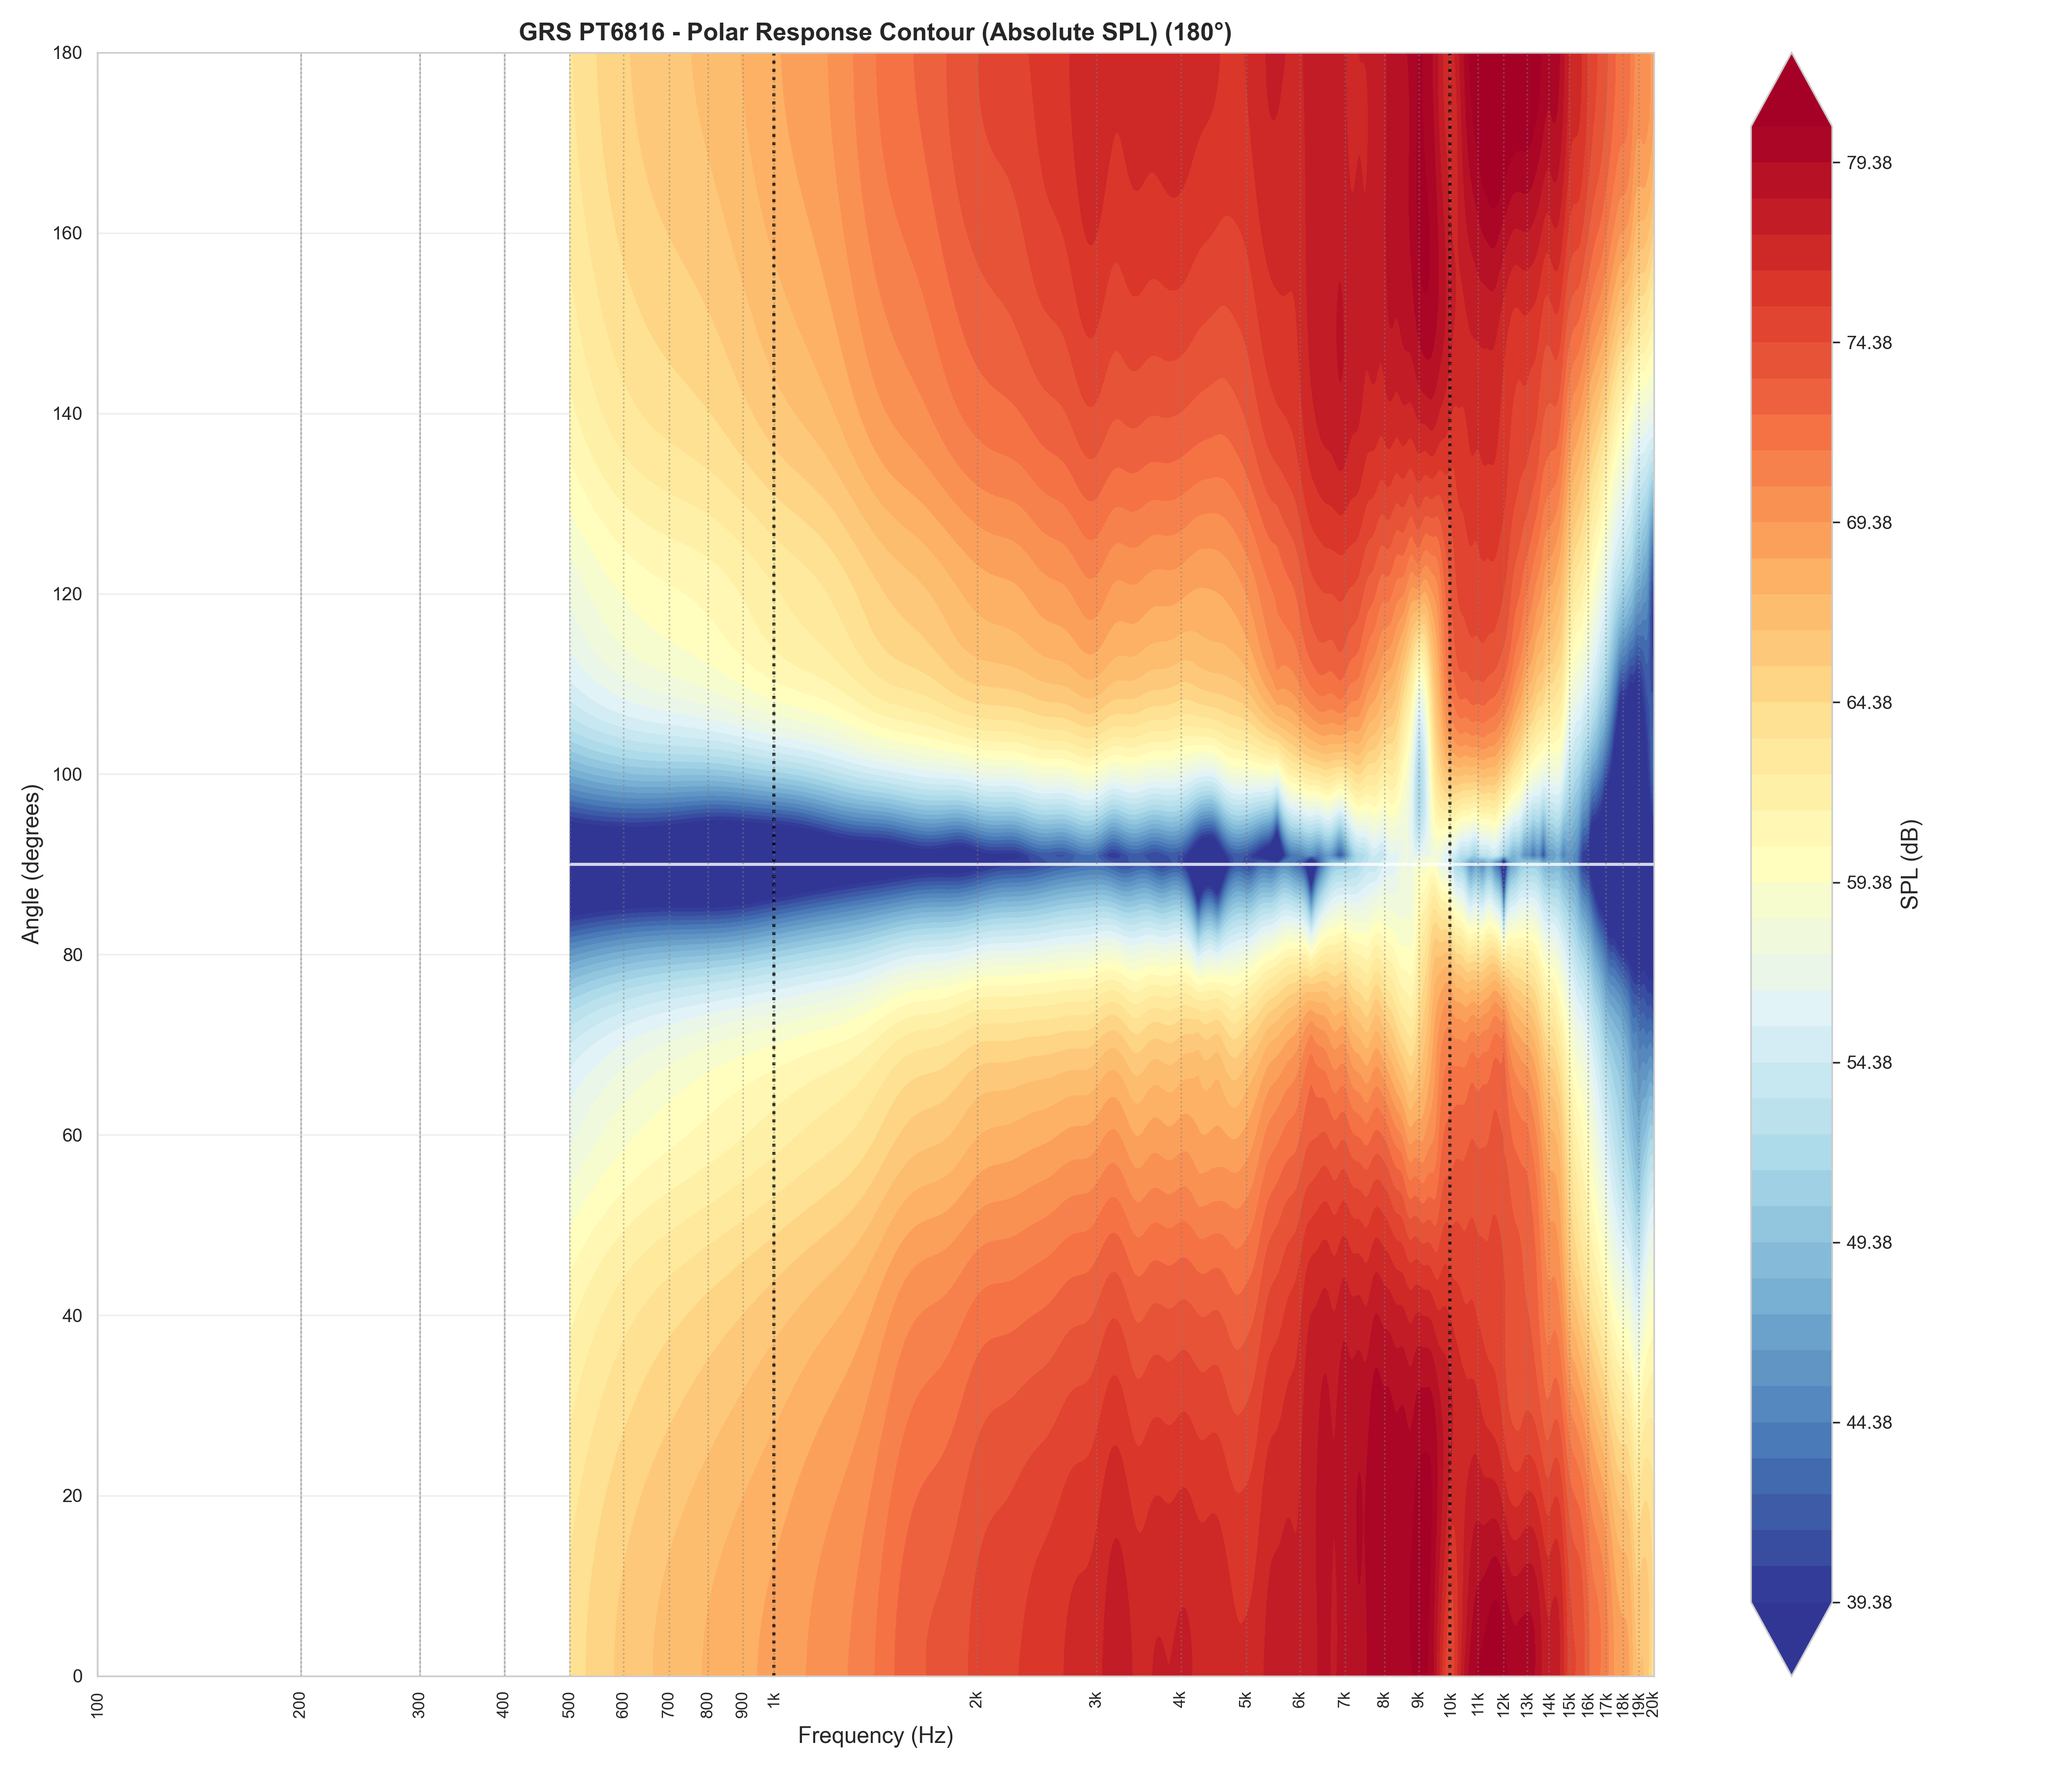
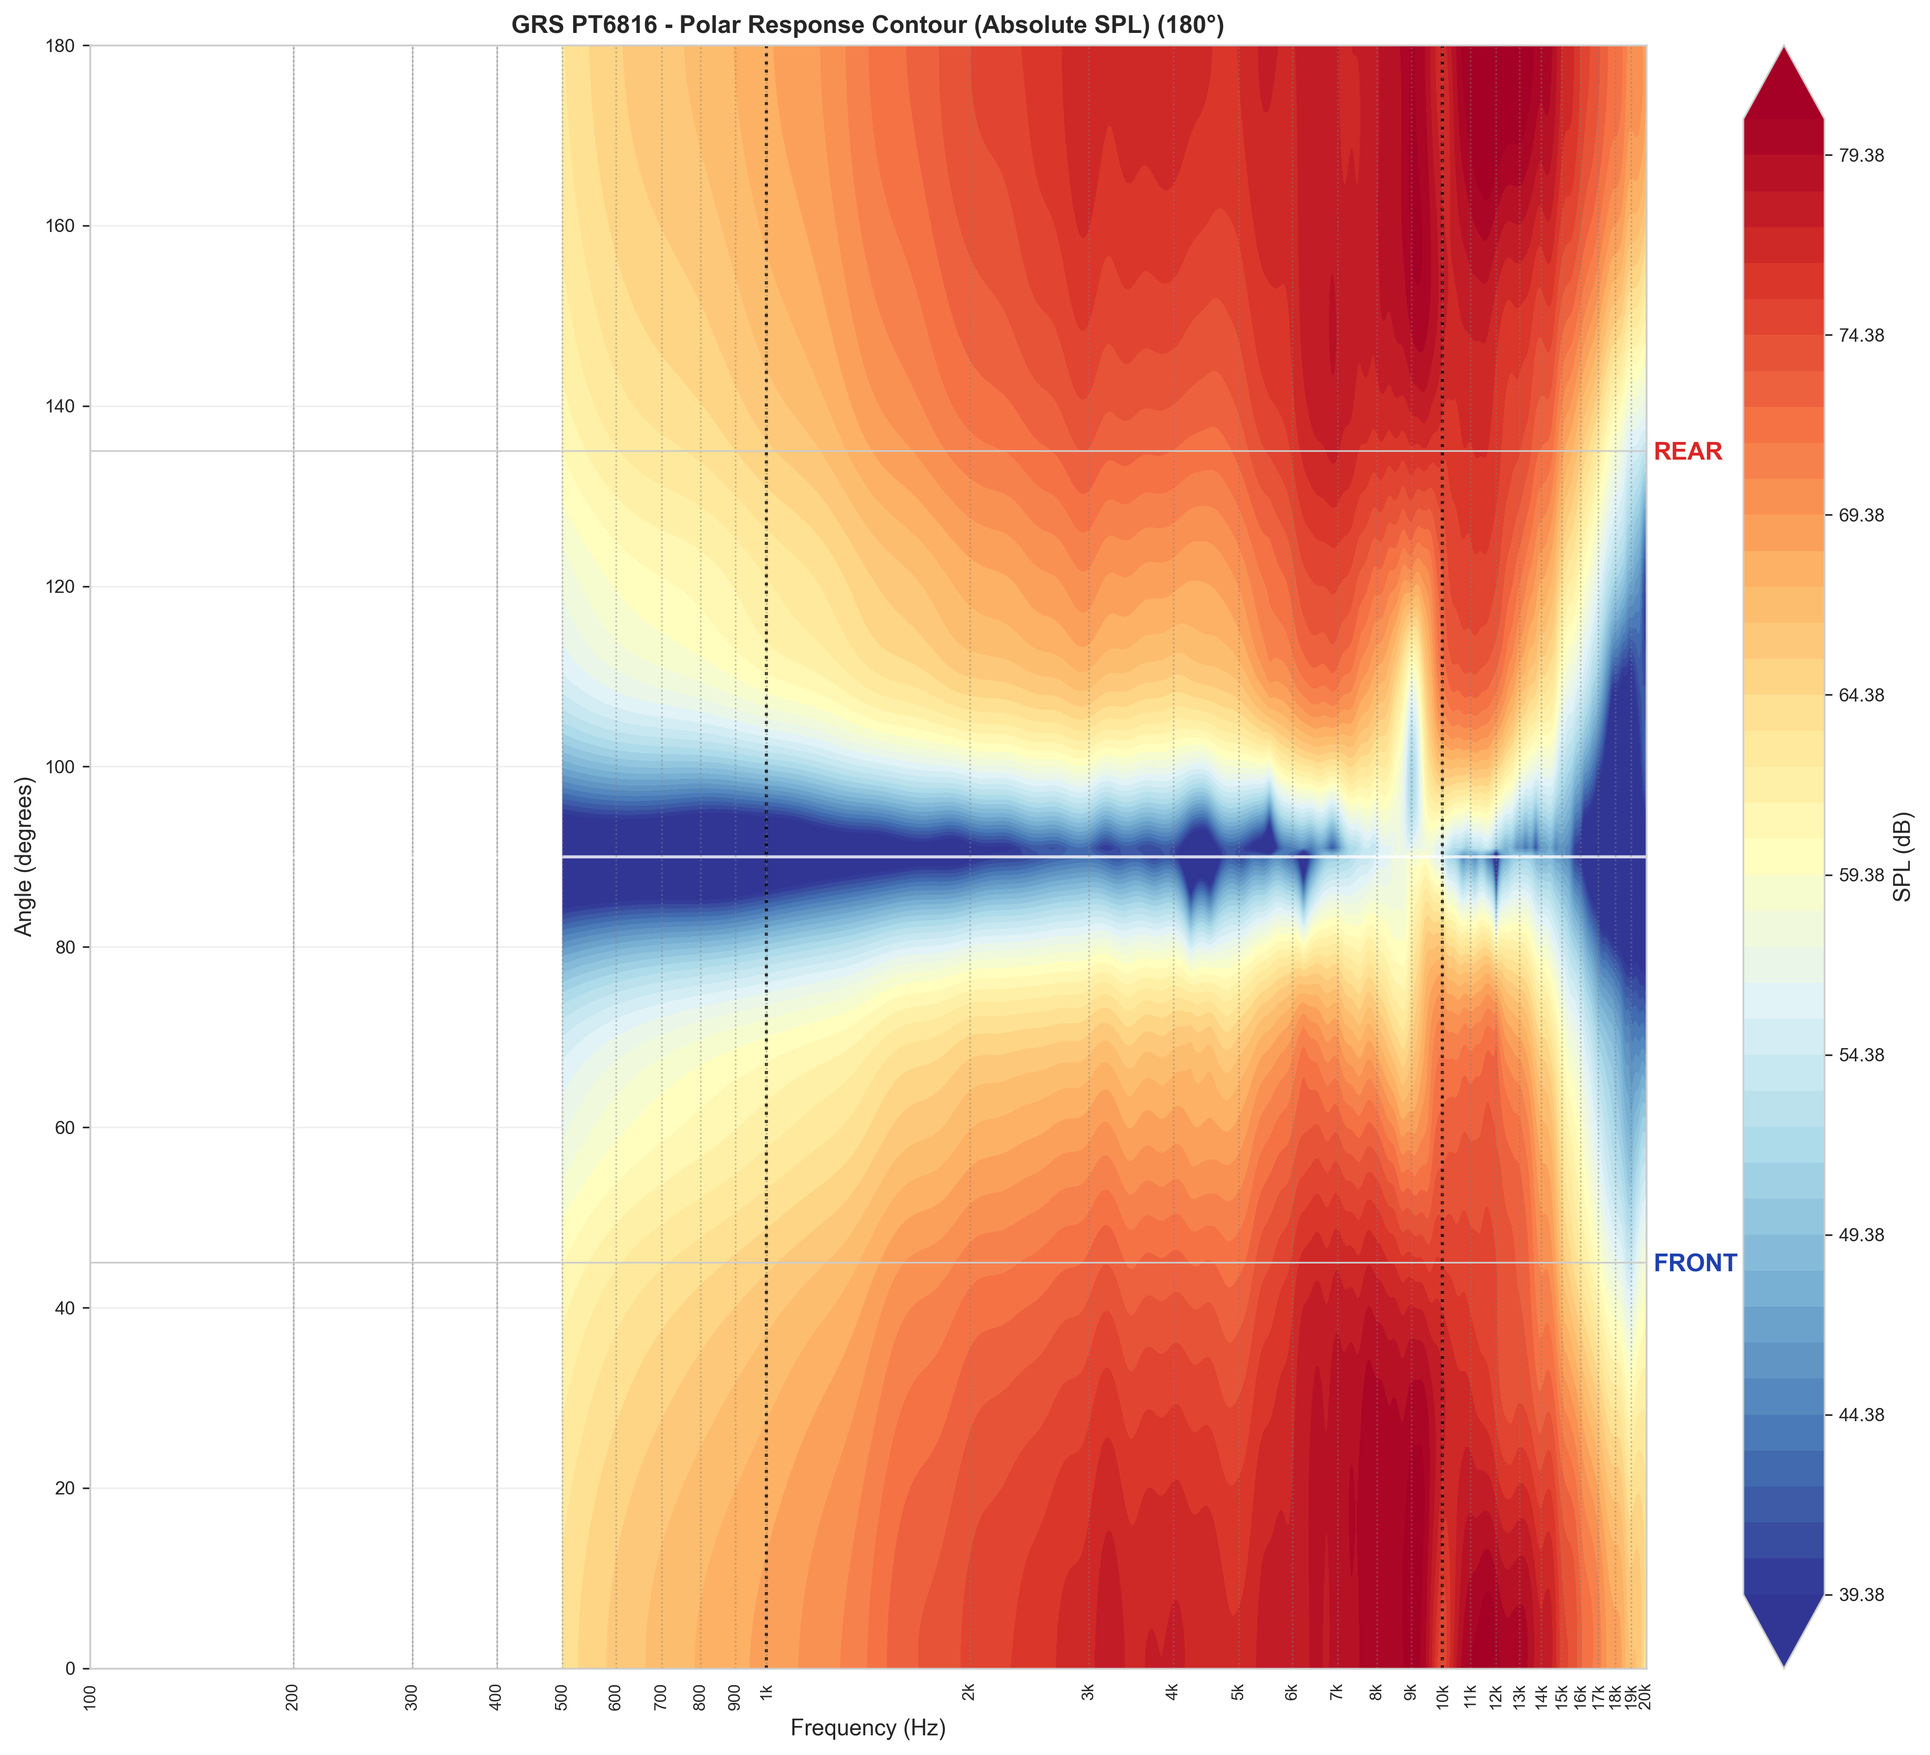
Add FRONT/REAR labels to static contour plots
Use secondary Y-axis labels for reliable positioning that wont be clipped.

Generated with Claude Code

diff --git a/generate_visualizations.py b/generate_visualizations.py
@@ -592,18 +592,21 @@ class PolarResponseVisualizer:
             ax.set_ylim(y_lim)
             cbar = fig.colorbar(contour, ax=ax, label=cbar_label)
 
-            # Add FRONT/REAR vertical labels on the right side when rear data is shown
+            # Add FRONT/REAR vertical labels on the right Y-axis when rear data is shown
             if has_rear and rear_spl_matrix is not None:
-                # Position labels in figure coordinates, to the right of the plot but left of colorbar
-                # Use ax.transAxes for positioning relative to axes
-                ax.text(1.02, 0.25, 'FRONT', transform=ax.transAxes, fontsize=12, fontweight='bold',
-                       rotation=90, va='center', ha='left', color='#1e40af')
-                ax.text(1.02, 0.75, 'REAR', transform=ax.transAxes, fontsize=12, fontweight='bold',
-                       rotation=90, va='center', ha='left', color='#dc2626')
+                # Create secondary Y-axis for labels
+                ax2 = ax.twinx()
+                ax2.set_ylim(y_lim)
+                ax2.set_yticks([45, 135])
+                ax2.set_yticklabels(['FRONT', 'REAR'], fontsize=12, fontweight='bold')
+                ax2.tick_params(axis='y', colors='#1e40af', length=0)
+                # Color the labels differently
+                for i, label in enumerate(ax2.get_yticklabels()):
+                    label.set_color('#1e40af' if i == 0 else '#dc2626')
 
             plt.tight_layout()
             suffix = "normalized" if normalized else "absolute"
-            plt.savefig(self.static_plots_dir / f'core/{driver}_contour_{suffix}.png')
+            plt.savefig(self.static_plots_dir / f'core/{driver}_contour_{suffix}.png', bbox_inches='tight')
             plt.close()
 
         if save_interactive:
